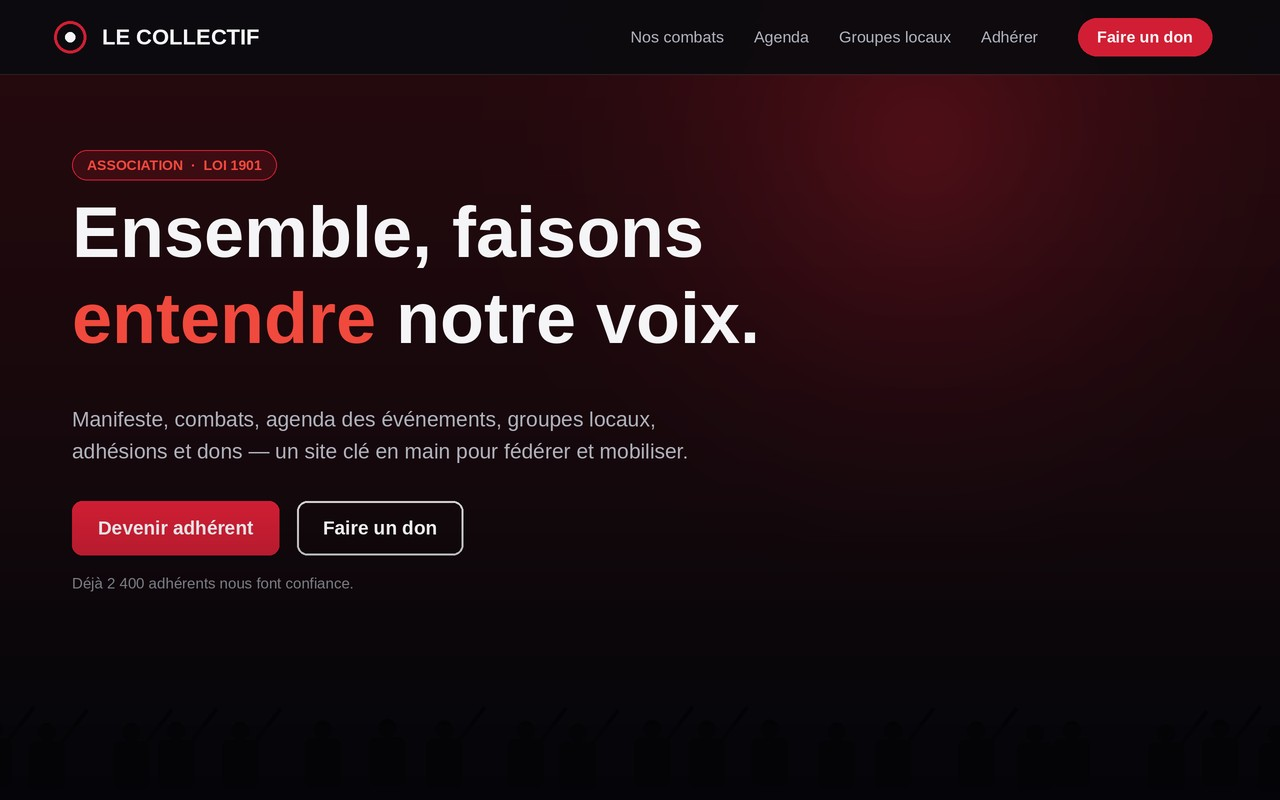
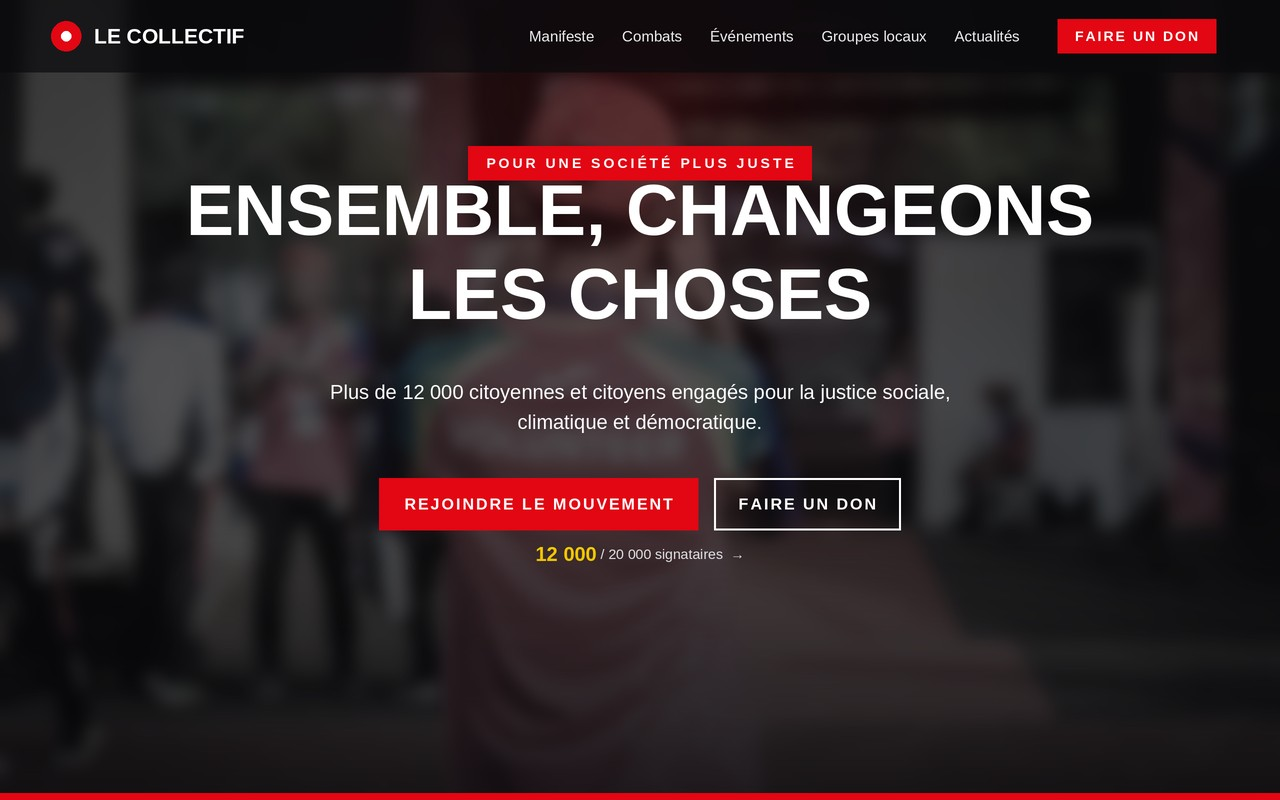
Hub templates : carte 'association' = vraie photo en fond + hero fidele au template
Sur demande de Fabrice ('une photo en fond + refleter le vrai template') :
fond = photo Unsplash (libre) floutee + voile sombre facon parallax du theme ;
hero reproduit fidelement ag-starter-association (lu dans sa source) : palette
#E30613 / #FFD200 / noir, hero centre, tag rouge capitales, titre capitales
'ENSEMBLE, CHANGEONS LES CHOSES', vrai sous-titre, menu reel, boutons Rejoindre
le mouvement / Faire un don, compteur petition, lisere rouge en bas. Marque
fictive 'Le Collectif' (aucune orga/logo reel). Reste un placeholder (note DESIGN).

Claude-Session: https://claude.ai/code/session_01LXSKG1NwsfrAKLFKPWJ1QK

diff --git a/alliance-groupe-theme/assets/downloads/COWORK.md b/alliance-groupe-theme/assets/downloads/COWORK.md
@@ -303,4 +303,4 @@ d'étiquette pour un lecteur d'écran). Même règle : sur demande.
 
 - 2026-09-22 · CODE → DESIGN · **Livret « Formation Ambassadeur » LUXE : corriger le chiffre de commission.** Le PDF hébergé à `wp-content/uploads/2026/09/Formation-Ambassadeur-50.pdf` (design noir & or, lion AG, art-déco — votre version Cowork) affiche « **20 %** » (couverture « 20 % DE COMMISSION SUR CHAQUE VENTE » + « ÉDITION 20 % » + titre onglet « 20 % »). Il faut la version **50 %**. → Depuis VOTRE source, changer le nombre 20 → 50 (couverture + « ÉDITION » + toute autre occurrence) et **ré-exporter en gardant le même nom de fichier** `Formation-Ambassadeur-50.pdf`, puis ré-uploader dans Médias (écraser) pour conserver l'URL. Je ne peux pas éditer le chiffre côté CODE : le PDF final (2,9 Mo) a des polices sous-ensemblées + images, le texte n'est pas modifiable proprement sans la source. Idéalement produire les 3 éditions cohérentes (10/20/50) au même gabarit. CÔTÉ CODE (fait) : l'envoi de la formation choisit désormais automatiquement le PDF **du taux** de chaque ambassadeur (3 champs de liens 10/20/50 dans Ambassadeurs → 📚 Formation) — donc dès que le bon fichier 50 % est en ligne, tout est cohérent.
 
-- 2026-10-07 · CODE → DESIGN · **Vignette « Association » = PLACEHOLDER à remplacer.** Sur demande directe de Fabrice (il a choisi « image sur-brand » parmi 3 options), j'ai généré une MAQUETTE réaliste d'accueil (nav + titre + sous-titre + CTA « Adhérer / Faire un don », marque fictive « Le Collectif », rouge & noir, sans logo/orga réelle) via Pillow et l'ai posée en `alliance-groupe-theme/assets/images/templates/association.jpg` → la carte du hub `/templates-wordpress` l'affiche via le fallback `<slug>.jpg`. **C'est un STOPGAP** : les 5 autres cartes (avocat/restaurant/artisan/coach/barber) montrent de VRAIES captures d'UI du template ; l'association, elle, n'a pas de capture (dossier `assets/images/templates/association/` inexistant, pas de démo publique). **→ Votre lane : produire une vraie capture de l'accueil du template association** (ou valider la vignette). Dès qu'un `association/accueil.jpg` existe, il prime sur mon placeholder (le code prend d'abord la galerie du dossier). Je n'ai touché à aucun CSS/mise en page.
+- 2026-10-07 · CODE → DESIGN · **Vignette « Association » = PLACEHOLDER à remplacer.** Sur demande directe de Fabrice (il a choisi « image sur-brand » parmi 3 options), j'ai généré une MAQUETTE réaliste d'accueil FIDÈLE au template ag-starter-association (vraie PHOTO Unsplash floutee+assombrie en fond + hero exact du template : palette #E30613/#FFD200/noir, tag 'POUR UNE SOCIETE PLUS JUSTE', titre capitales 'ENSEMBLE, CHANGEONS LES CHOSES', vrai sous-titre 12000 citoyens, menu Manifeste/Combats/Evenements/Groupes/Actualites, CTA Rejoindre+Don, compteur petition, lisere rouge). Marque fictive 'Le Collectif'. Via Pillow et l'ai posée en `alliance-groupe-theme/assets/images/templates/association.jpg` → la carte du hub `/templates-wordpress` l'affiche via le fallback `<slug>.jpg`. **C'est un STOPGAP** : les 5 autres cartes (avocat/restaurant/artisan/coach/barber) montrent de VRAIES captures d'UI du template ; l'association, elle, n'a pas de capture (dossier `assets/images/templates/association/` inexistant, pas de démo publique). **→ Votre lane : produire une vraie capture de l'accueil du template association** (ou valider la vignette). Dès qu'un `association/accueil.jpg` existe, il prime sur mon placeholder (le code prend d'abord la galerie du dossier). Je n'ai touché à aucun CSS/mise en page.
